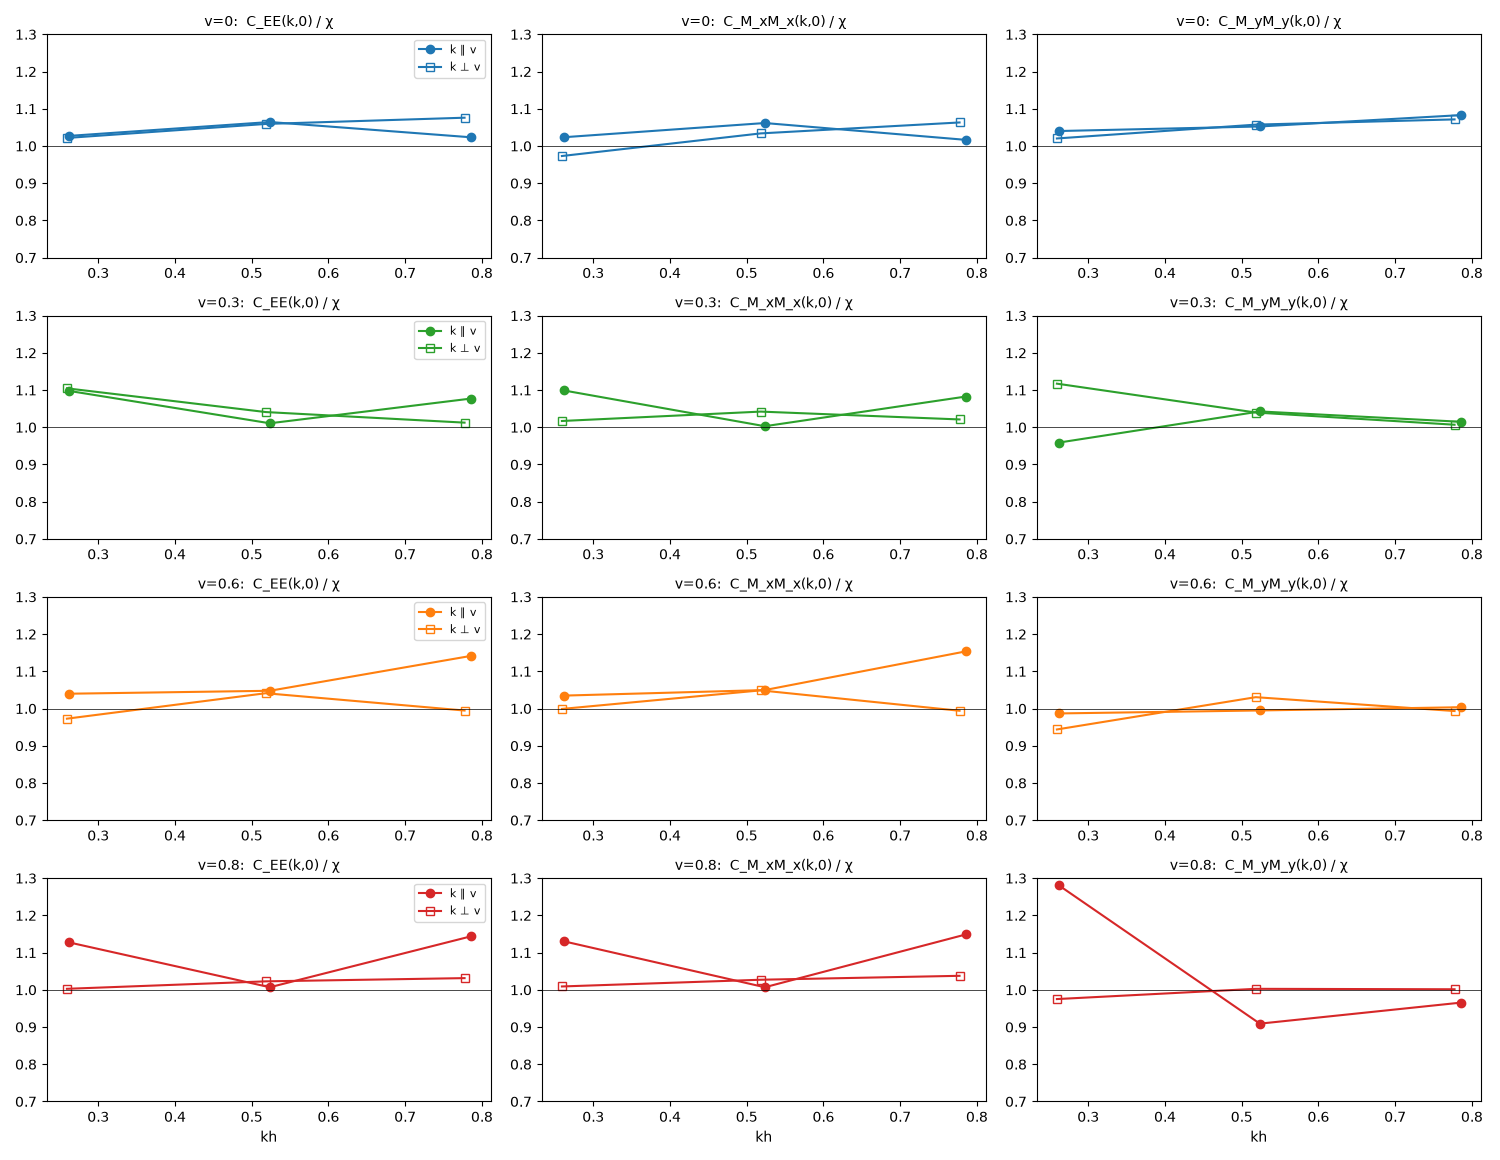
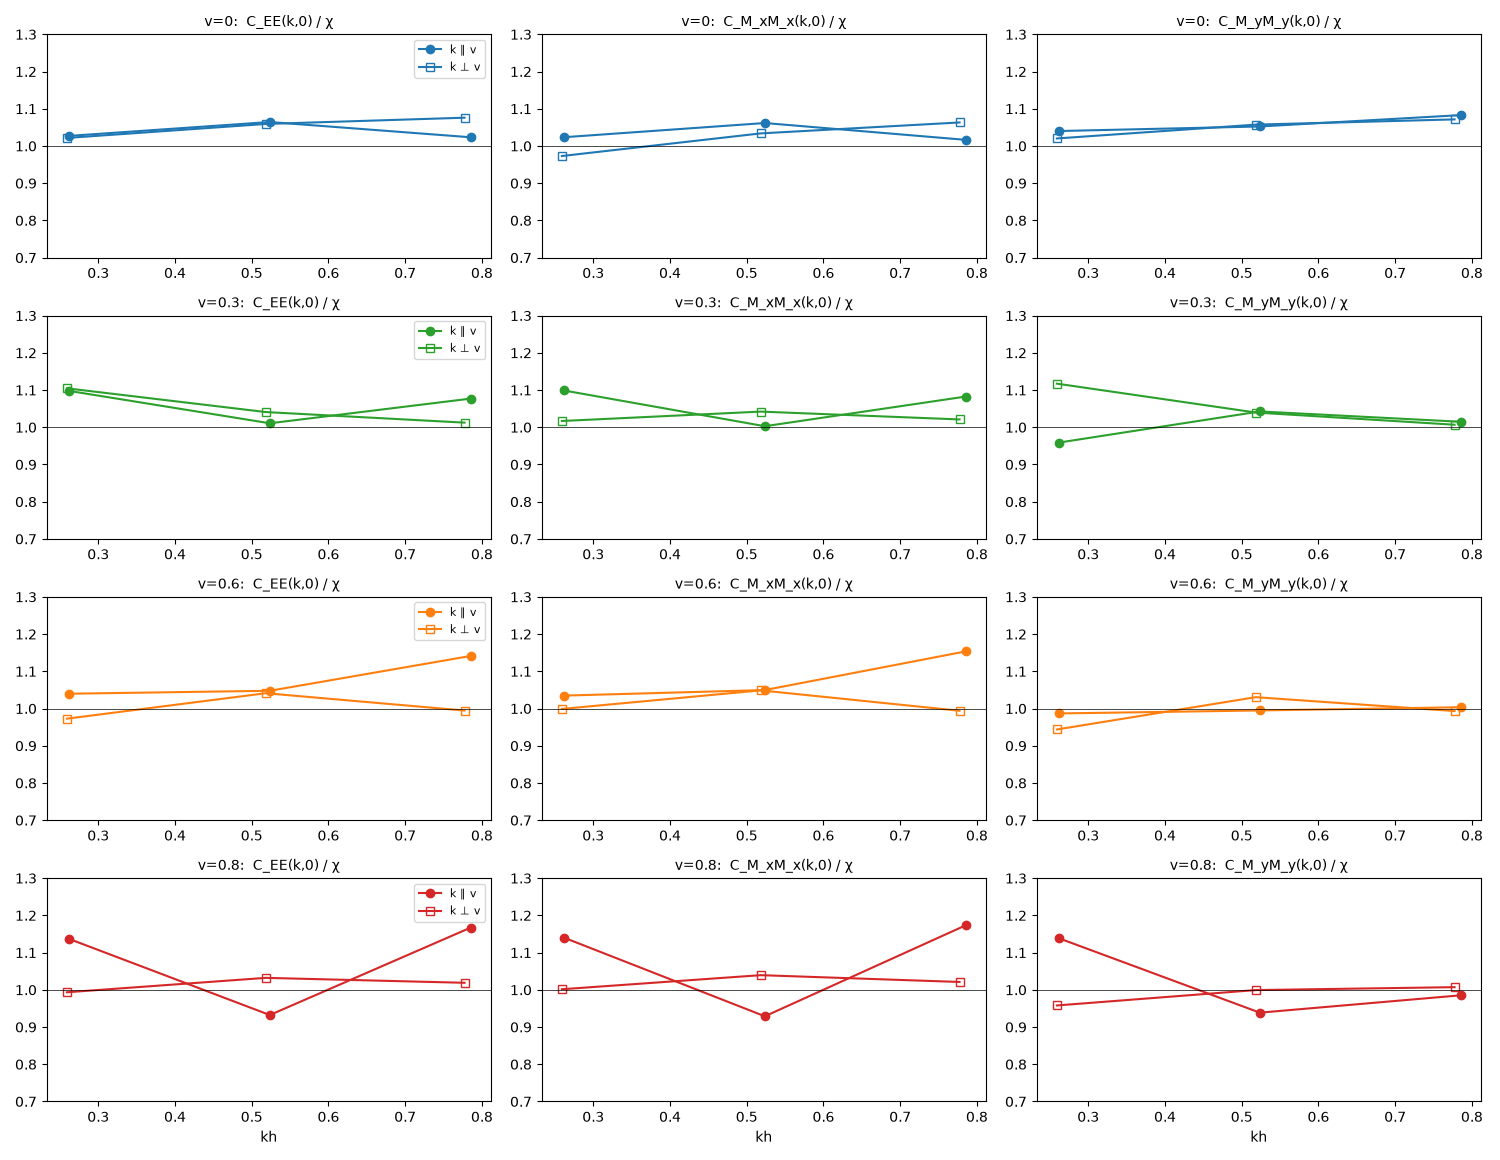
gridstep.tex: the longer runs — v = 0.8 pooled over 32 runs (shear along the flow 1.06(8)), L = 2.4 (shear at kh = 0.13 follows hydrodynamics; equal time needs more statistics)

diff --git a/docs/gridstep.tex b/docs/gridstep.tex
@@ -516,7 +516,7 @@ $v_0$ & $E$ & $M_x$ & $M_y$ & $E$ & $M_x$ & $M_y$ \\ \hline
 0 & $1.06(2)$ & $1.06(3)$ & $1.05(3)$ & $0.99(3)$ & $0.98(3)$ & $1.04(3)$ \\
 0.3 & $1.01(3)$ & $1.00(4)$ & $1.04(2)$ & $0.91(3)$ & $0.87(3)$ & $1.01(3)$ \\
 0.6 & $1.05(6)$ & $1.05(7)$ & $1.00(4)$ & $0.86(4)$ & $0.83(5)$ & $0.98(2)$ \\
-0.8 & $1.01(18)$ & $1.01(18)$ & $0.91(4)$ & $0.84(4)$ & $0.83(4)$ & $0.97(3)$ \\
+0.8 & $0.93(10)$ & $0.93(10)$ & $0.94(3)$ & $0.84(4)$ & $0.83(4)$ & $0.97(3)$ \\
 \hline
 \end{tabular}
 \end{center}
@@ -533,15 +533,23 @@ $v_0$ & grid & particles & grid & particles \\ \hline
 0 & $0.97(5)$ & $1.00(4)$ & $0.98(5)$ & $1.00(4)$ \\
 0.3 & $0.95(4)$ & $1.11(4)$ & $0.88(5)$ & $1.16(6)$ \\
 0.6 & $0.96(7)$ & $1.10(7)$ & $0.94(6)$ & $1.21(6)$ \\
-0.8 & $1.12(12)$ & $1.36(7)$ & $1.00(6)$ & $1.14(4)$ \\
+0.8 & $1.06(8)$ & $1.36(7)$ & $0.97(4)$ & $1.14(4)$ \\
 \hline
 \end{tabular}
 \end{center}
-At $kh=0.26$, $v_0=0.8$ along the flow: grid $0.84(16)$, particles $1.52(20)$.  The excess damping of the
+(At $v_0=0.8$ the grid pools 32 runs: the first 16 and 16 more to $t=600$, job 61212123; with the first 16
+alone $1.12(12)$ and $1.00(6)$.)  At $kh=0.26$, $v_0=0.8$ along the flow: grid $0.93(13)$, particles $1.52(20)$.  The excess damping of the
 shear mode with flow, which \texttt{boost.tex} traced to the particle step, is gone: the grid is at the
 rate of hydrodynamics within the errors at every $v_0$, including the rate along the flow slowed by
 $\gamma^3$.  The advection speed is $\Omega/k=0.791$, $0.768$ at $kh=0.26$, $0.52$ for $v_0=0.8$, i.e.
 $v_0\,\kappa(k)/k$: the dispersion of the stencil, below.
+
+\emph{The larger box,} $L=2.4$ ($kh\ge0.13$), 8 runs each at $v_0=0$, $0.6$, $0.8$, $t=300$ (job 61212123;
+Figs.~\ref{fig:gb24static}, \ref{fig:gb24shear}).  The shear mode is advected at $\Omega/k=0.796$ at $kh=0.13$ and damped
+as in hydrodynamics within large errors ($v_0=0.8$: $1.03\pm0.23$ at $kh=0.26$, $0.96\pm0.59$ at $kh=0.13$).  The
+equal-time values scatter by 10--40\% at this statistics, as with the particles (one value $3\sigma$ low,
+$C_{EE}/\chi=0.60\pm0.13$ along the flow at $v_0=0.8$, $kh=0.26$); the high-statistics set (32 runs to $t=1000$,
+running) will tell.
 
 \paragraph{Dispersion.}  The phase errors above (sound, advection) are $\kappa(k)/k-1$, where
 $\kappa(k)\approx k\,\hat W(kh)$ is the lattice derivative of the kernel-smoothed field.  It depends on $kh$, not
@@ -810,6 +818,16 @@ $\kappa(\bm k)h$; top $v_0=0$, bottom $v_0=0.8$; 16 runs each, $t=100$.}
 \includegraphics[width=\textwidth]{figs/grid_spectra_maps.png}
 \caption{The same over the Brillouin zone ($k_xh$, $k_yh$; first-zone representatives): equipartition is white.}
 \label{fig:gspmap}
+\end{figure}
+\begin{figure}[p]
+\includegraphics[width=\textwidth]{figs/boost_static_GRID24.png}
+\caption{Stochastic grid runs at $L=2.4$: equal-time $C_{AA}(\bm k,0)/\chi_{AA}$ against $kh$, one row per $v_0$; 8 runs each.}
+\label{fig:gb24static}
+\end{figure}
+\begin{figure}[p]
+\includegraphics[width=\textwidth]{figs/boost_shear_GRID24.png}
+\caption{Stochastic grid runs at $L=2.4$: the advected shear mode at $kh=0.13$, one row per $v_0$; dashed hydrodynamics.}
+\label{fig:gb24shear}
 \end{figure}
 \begin{figure}[t]
 \includegraphics[width=\textwidth]{figs/grid_smoke.png}
